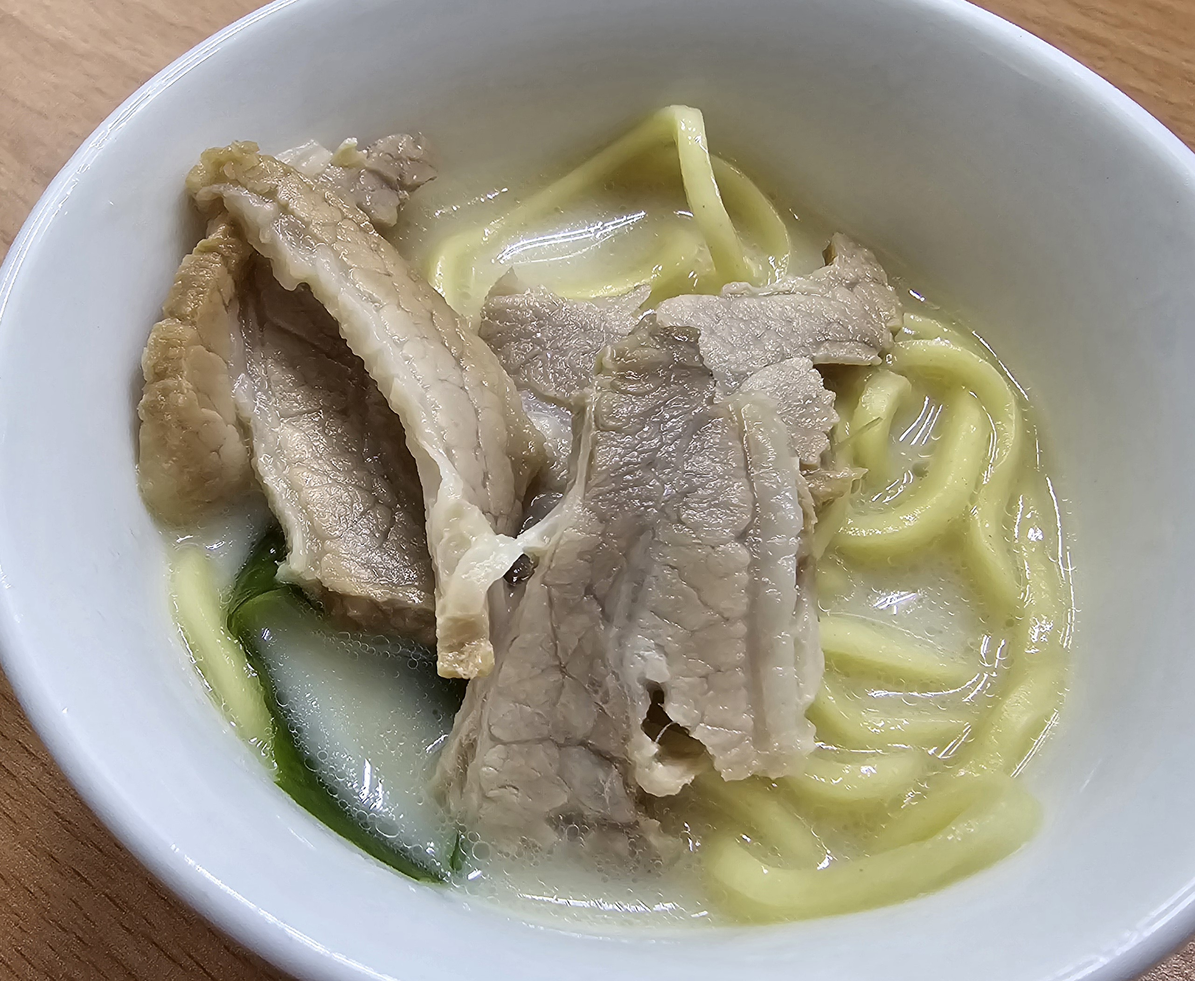
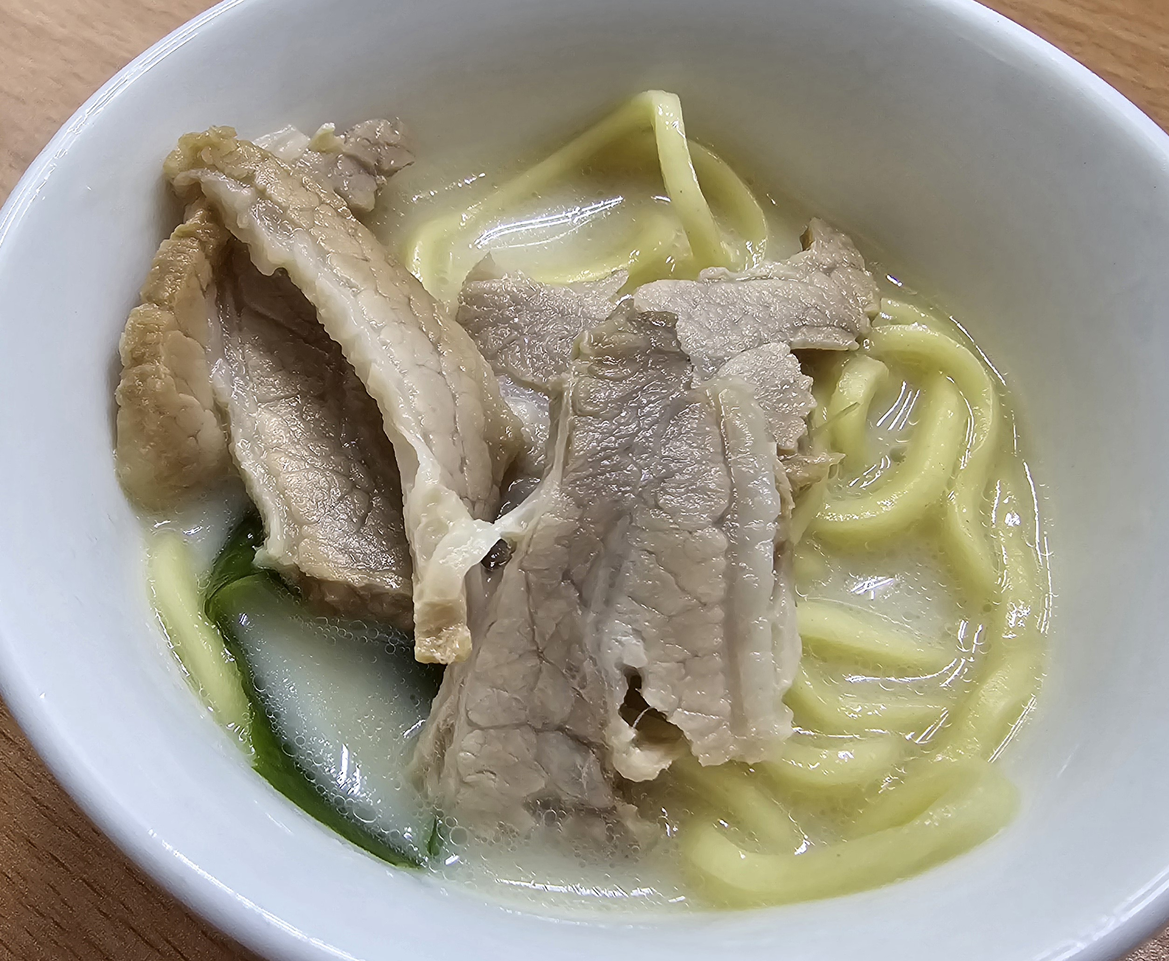
feat: 蒸煮拉麵機產品圖換原圖全顯示
- ramen_cups.jpg: 麻辣燙/泰式/叻沙/鮮香/咖哩 五口味密封碗俯拍
- ramen_bowl.jpg: 完成品豬肉麵湯碗
- objectFit cover→contain 確保全圖不裁切

diff --git a/src/app/east-beauty/page.tsx b/src/app/east-beauty/page.tsx
@@ -901,8 +901,8 @@ export default function EastBeautyPage() {
                 ))}
               </div>
               <div style={{ marginTop: "20px", display: "flex", gap: "12px", flexWrap: "wrap" }}>
-                <Image src="/images/eastbeauty/ramen_cups.jpg" alt="密封杯裝食材" width={200} height={150} style={{ borderRadius: "8px", border: "1px solid #e8e0d0", objectFit: "cover" }} />
-                <Image src="/images/eastbeauty/ramen_bowl.jpg" alt="完成品" width={200} height={150} style={{ borderRadius: "8px", border: "1px solid #e8e0d0", objectFit: "cover" }} />
+                <Image src="/images/eastbeauty/ramen_cups.jpg" alt="密封杯裝食材" width={280} height={210} style={{ borderRadius: "8px", border: "1px solid #e8e0d0", objectFit: "contain", background: "#faf8f4" }} />
+                <Image src="/images/eastbeauty/ramen_bowl.jpg" alt="完成品" width={280} height={210} style={{ borderRadius: "8px", border: "1px solid #e8e0d0", objectFit: "contain", background: "#faf8f4" }} />
               </div>
             </div>
             <div>
